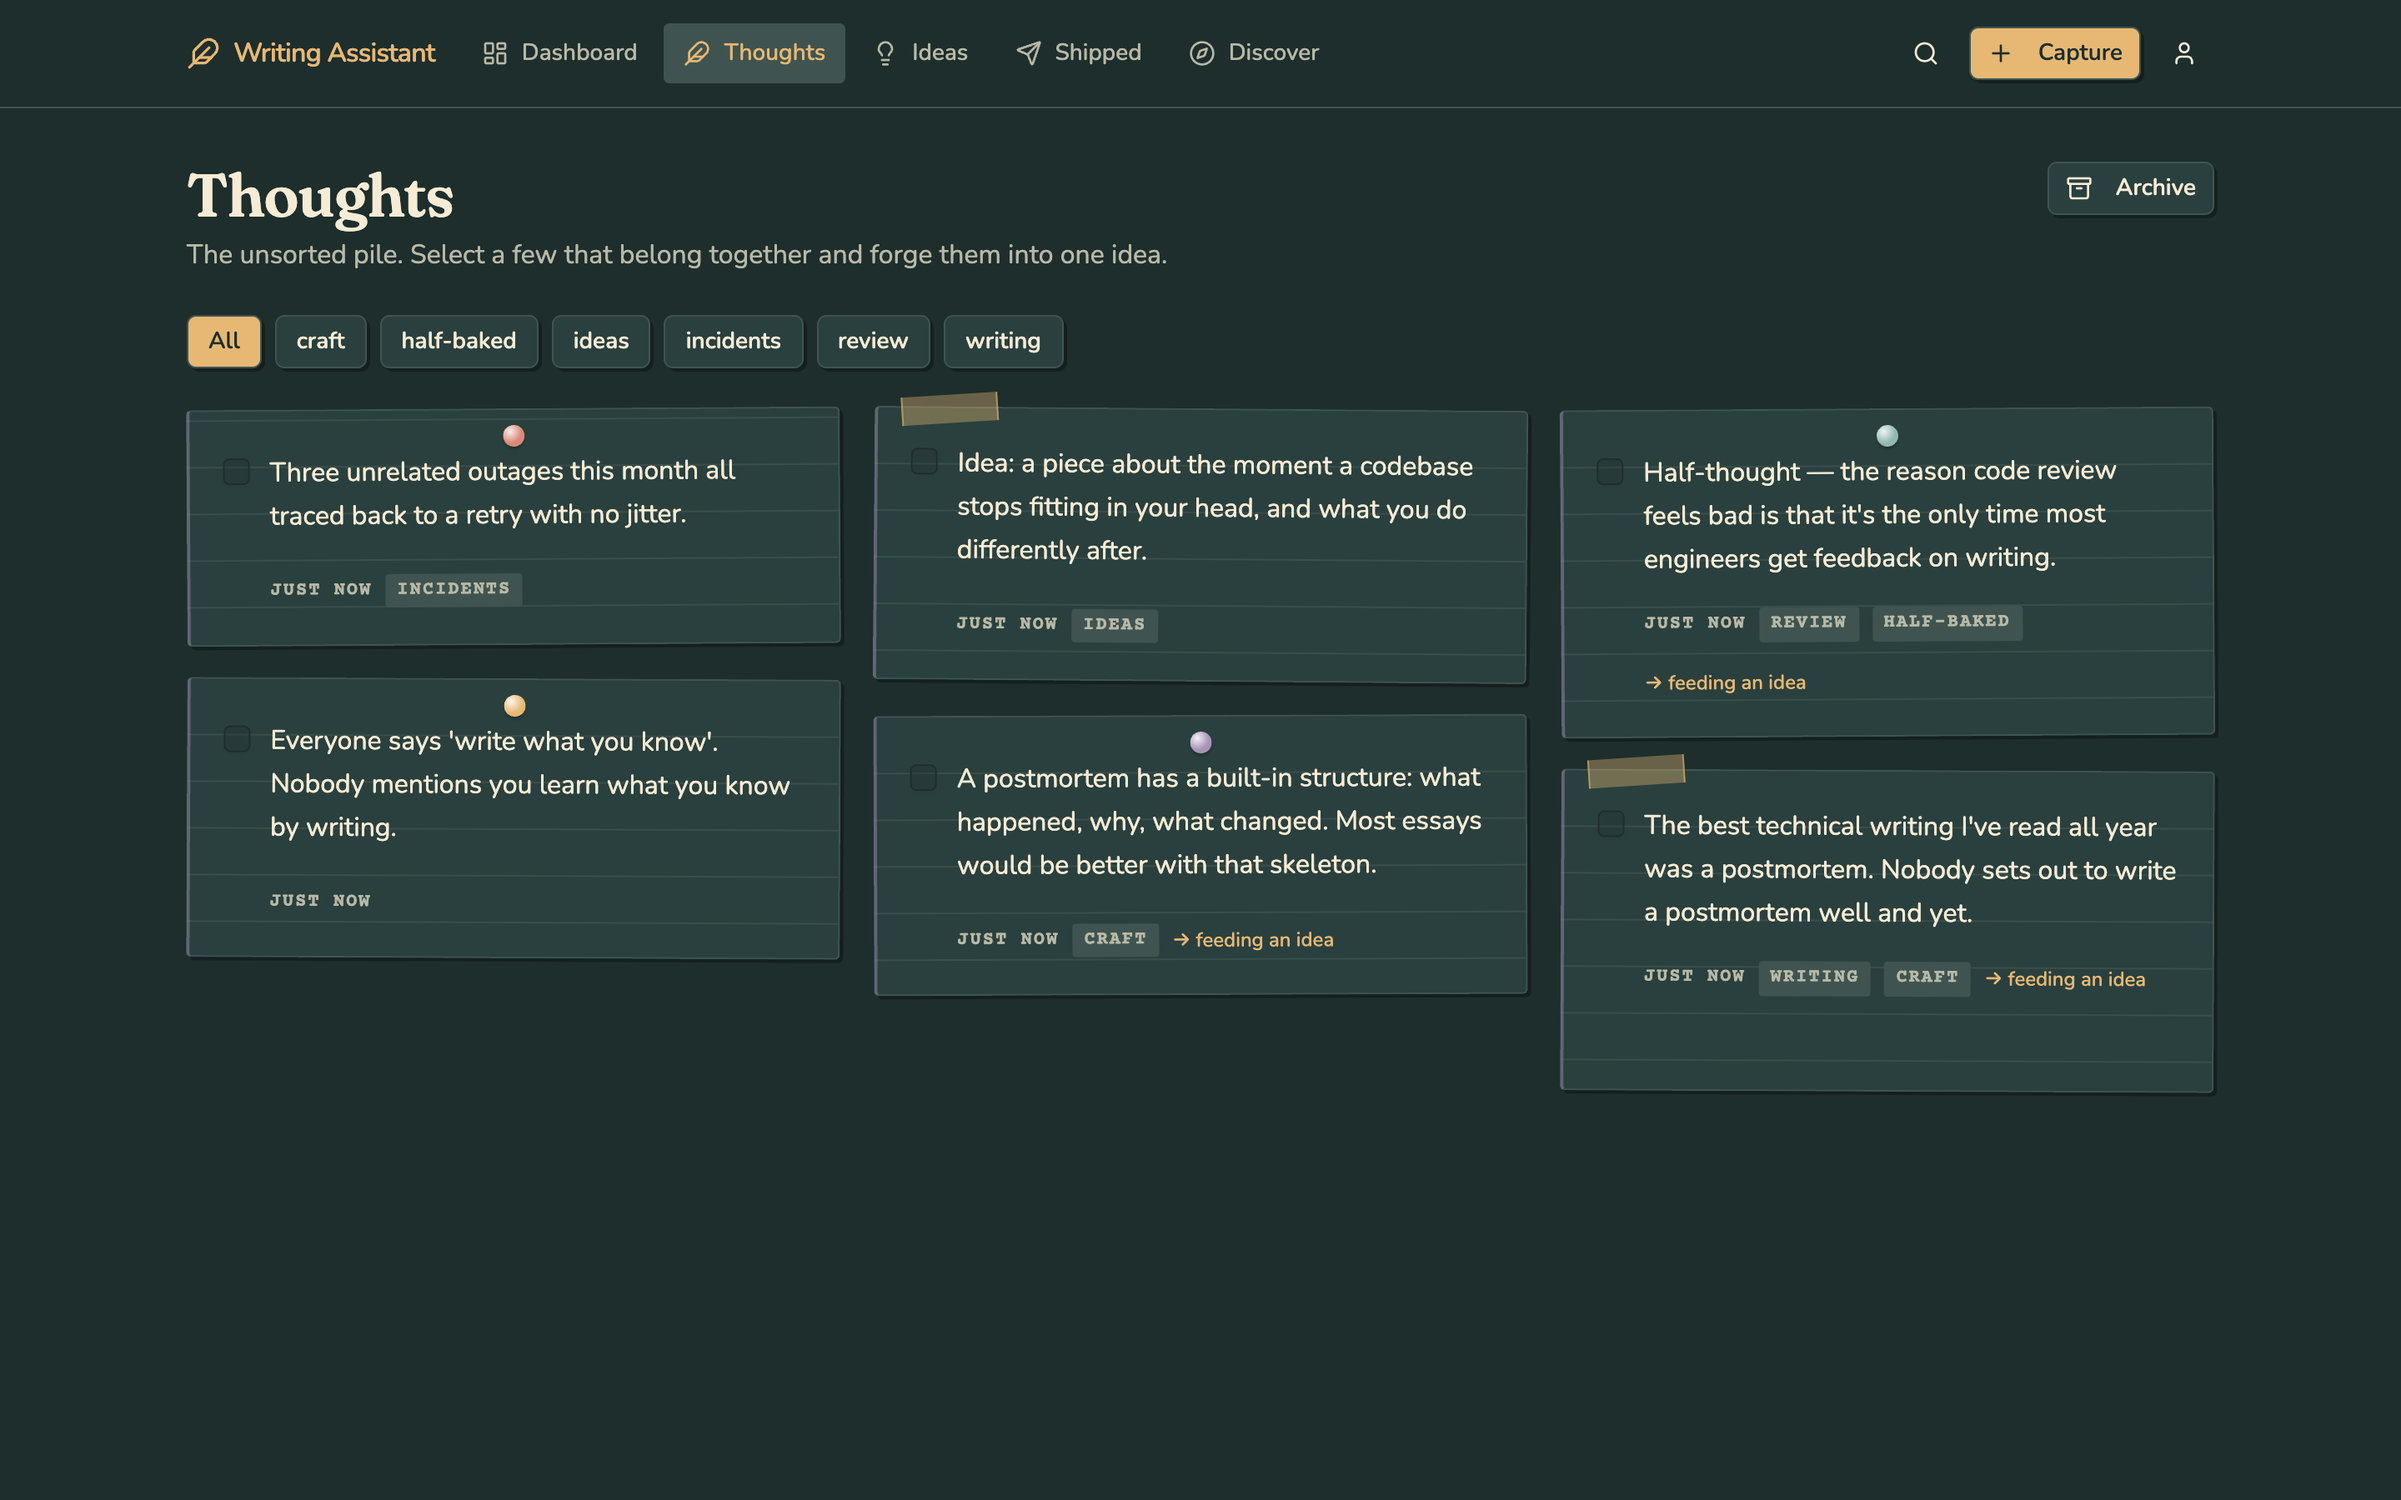
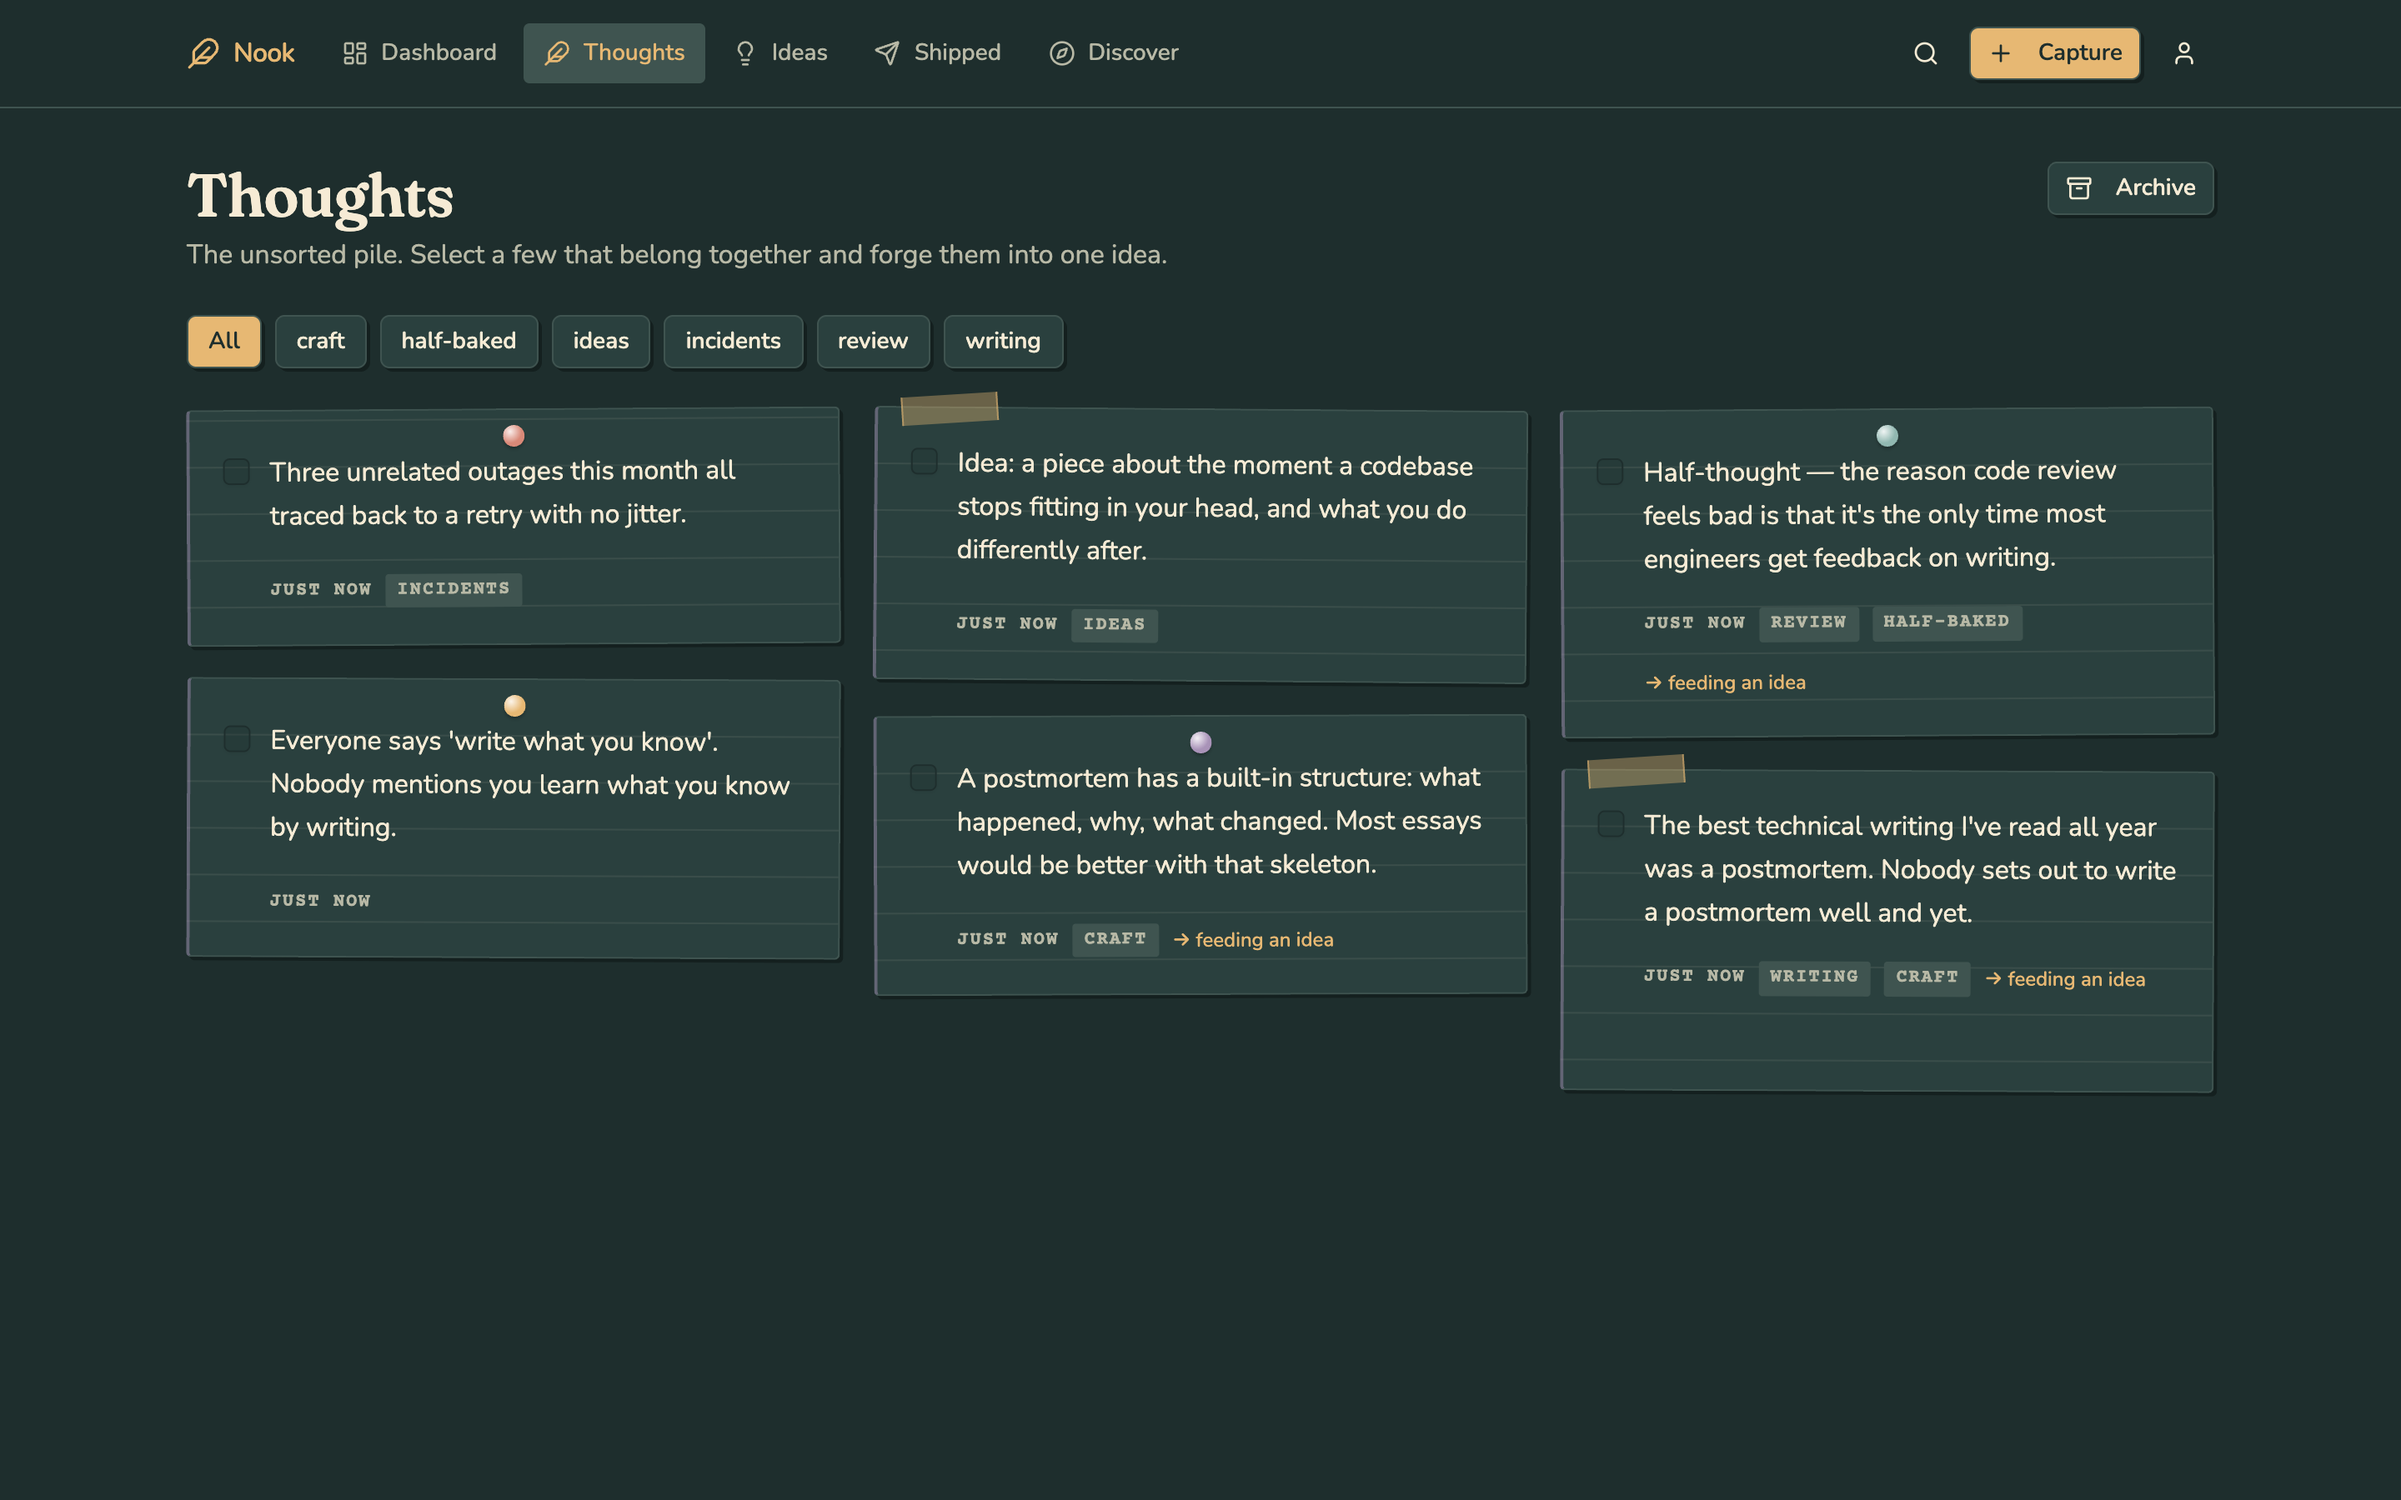
Rename the app to Nook
Display name everywhere: the nav, sign-in, landing, legal, the public shelf
footer, the page title, the PWA manifest, and the docs. The manifest's
short_name and the iOS home-screen title were "Writing" — the truncation of
the old name — and are now just Nook.

Identifiers follow where they are private to us: the package name, the
service worker cache key (version bumped too, since a renamed key is a new
cache and the old one should not linger), the export filename, the share
card label.

One identifier deliberately does not change: the RSS guid prefix. A guid is
a permanent identity rather than a label, so renaming it would make every
item already sitting in a subscriber's reader look brand new and re-notify
them about posts they read months ago. The reason is recorded next to it.

Screenshots regenerated, since the old name was in every one of them.

Changed region(s): [[0.0938, 0.0, 0.5312, 0.0622]]

diff --git a/server/publicShelf.ts b/server/publicShelf.ts
@@ -6,7 +6,7 @@ import { findUserByUsername, listPublishedIdeas } from "./db";
  * The parts of a public shelf that a crawler sees.
  *
  * A single-page app returns the same empty HTML shell for every URL, so a link
- * to someone's shelf posted anywhere unfurls as "Writing Assistant — a calm
+ * to someone's shelf posted anywhere unfurls as "Nook — a calm
  * workspace for writers" with no name, no description and no indication whose
  * shelf it is. That makes the one growth surface in the app useless as a
  * shared link, which is the entire point of it.
@@ -52,6 +52,10 @@ export function mountPublicShelf(app: Express): void {
       .map(piece => {
         // Prefer where it was actually published; fall back to the shelf.
         const link = piece.publishedUrl ?? shelfUrl;
+        // The guid prefix is deliberately still the app's old name. A guid is
+        // a permanent identity rather than a label: changing it would make
+        // every item already sitting in someone's reader look brand new and
+        // re-notify them about posts they read months ago. No human sees it.
         return `    <item>
       <title>${escapeXml(piece.title)}</title>
       <link>${escapeXml(link)}</link>

diff --git a/client/index.html b/client/index.html
@@ -3,7 +3,7 @@
   <head>
     <meta charset="UTF-8" />
     <meta name="viewport" content="width=device-width, initial-scale=1.0" />
-    <title>Writing Assistant — a calm workspace for writers</title>
+    <title>Nook — a calm workspace for writers</title>
     <meta
       name="description"
       content="Capture ideas, shape them into drafts, and actually ship them. A quiet workspace for part-time writers." />
@@ -11,7 +11,7 @@
     <link rel="manifest" href="/manifest.webmanifest" />
     <meta name="theme-color" content="#e7b873" />
     <meta name="apple-mobile-web-app-capable" content="yes" />
-    <meta name="apple-mobile-web-app-title" content="Writing" />
+    <meta name="apple-mobile-web-app-title" content="Nook" />
     <link rel="apple-touch-icon" href="/icon-192.png" />
     <link rel="preconnect" href="https://fonts.googleapis.com" />
     <link rel="preconnect" href="https://fonts.gstatic.com" crossorigin />

diff --git a/client/src/pages/PublicShelf.tsx b/client/src/pages/PublicShelf.tsx
@@ -44,7 +44,7 @@ export default function PublicShelf() {
             public.
           </p>
           <Button asChild variant="outline">
-            <Link href="/">Go to Writing Assistant</Link>
+            <Link href="/">Go to Nook</Link>
           </Button>
         </div>
       </Frame>
@@ -127,7 +127,7 @@ function Frame({ children }: { children: React.ReactNode }) {
             className="flex items-center gap-2 hover:text-foreground"
           >
             <Feather className="size-4" aria-hidden />
-            Kept with Writing Assistant
+            Kept with Nook
           </Link>
         </footer>
       </div>

diff --git a/client/src/pages/Legal.tsx b/client/src/pages/Legal.tsx
@@ -27,7 +27,7 @@ function Frame({ title, children }: { title: string; children: ReactNode }) {
           <Link href="/" className="flex items-center gap-2">
             <Feather className="size-5 text-primary" aria-hidden />
             <span className="font-semibold tracking-tight text-primary">
-              Writing Assistant
+              Nook
             </span>
           </Link>
           <Button asChild variant="ghost" size="sm">

diff --git a/client/src/pages/Settings.tsx b/client/src/pages/Settings.tsx
@@ -402,7 +402,7 @@ function DataSection() {
       const url = URL.createObjectURL(blob);
       const link = document.createElement("a");
       link.href = url;
-      link.download = `writing-assistant-export-${new Date().toISOString().slice(0, 10)}.json`;
+      link.download = `nook-export-${new Date().toISOString().slice(0, 10)}.json`;
       link.click();
       URL.revokeObjectURL(url);
       toast.success("Downloaded.");

diff --git a/client/src/components/AppShell.tsx b/client/src/components/AppShell.tsx
@@ -79,7 +79,7 @@ export default function AppShell({ children }: { children: ReactNode }) {
           <Link href="/" className="flex shrink-0 items-center gap-2">
             <Feather className="size-5 text-primary" aria-hidden />
             <span className="hidden font-semibold tracking-tight text-primary sm:block">
-              Writing Assistant
+              Nook
             </span>
           </Link>
 

diff --git a/client/src/lib/shareCard.ts b/client/src/lib/shareCard.ts
@@ -113,9 +113,7 @@ export function drawShareCard(stats: CardStats): HTMLCanvasElement {
   context.fillStyle = MUTED;
   context.font = "400 24px ui-monospace, 'Courier New', monospace";
   context.fillText(
-    stats.handle
-      ? `writing-assistant · /@${stats.handle}`
-      : "writing-assistant",
+    stats.handle ? `nook · /@${stats.handle}` : "nook",
     left,
     HEIGHT - pad - 44
   );

diff --git a/client/src/pages/Landing.tsx b/client/src/pages/Landing.tsx
@@ -29,7 +29,7 @@ export default function Landing() {
           <div className="flex items-center gap-2">
             <Feather className="size-5 text-primary" aria-hidden />
             <span className="font-semibold tracking-tight text-primary">
-              Writing Assistant
+              Nook
             </span>
           </div>
           <Button asChild variant="ghost" size="sm">

diff --git a/client/src/pages/SignIn.tsx b/client/src/pages/SignIn.tsx
@@ -58,7 +58,7 @@ export default function SignIn() {
         <Link href="/" className="mb-8 flex items-center justify-center gap-2">
           <Feather className="size-5 text-primary" aria-hidden />
           <span className="font-semibold tracking-tight text-primary">
-            Writing Assistant
+            Nook
           </span>
         </Link>
 

diff --git a/server/_core/index.ts b/server/_core/index.ts
@@ -46,7 +46,7 @@ async function startServer() {
   }
 
   server.listen(ENV.port, () => {
-    console.log(`\n  Writing Assistant → http://localhost:${ENV.port}\n`);
+    console.log(`\n  Nook → http://localhost:${ENV.port}\n`);
     void sweep();
     scheduleReminders();
   });

diff --git a/client/public/sw.js b/client/public/sw.js
@@ -8,7 +8,7 @@
  * a stale draft they then edit is worse than showing them an error.
  */
 
-const CACHE = "writing-assistant-shell-v2";
+const CACHE = "nook-shell-v3";
 const SHELL = ["/", "/manifest.webmanifest", "/favicon.svg"];
 
 self.addEventListener("install", event => {

diff --git a/todo.md b/todo.md
@@ -1,4 +1,4 @@
-# Writing Assistant — status
+# Nook — status
 
 ## Vision
 A quiet space for writers to capture messy thoughts, collect them, and slowly
